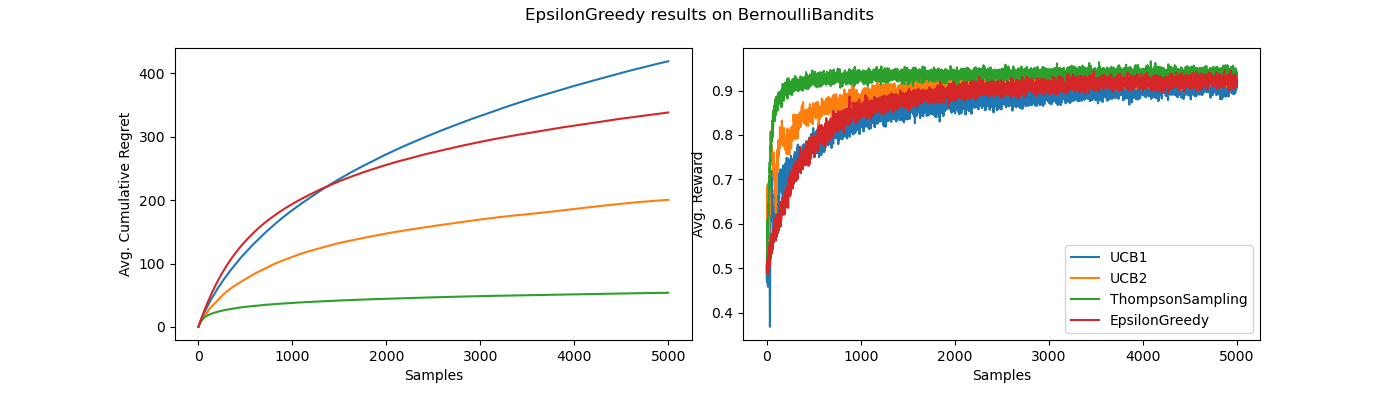
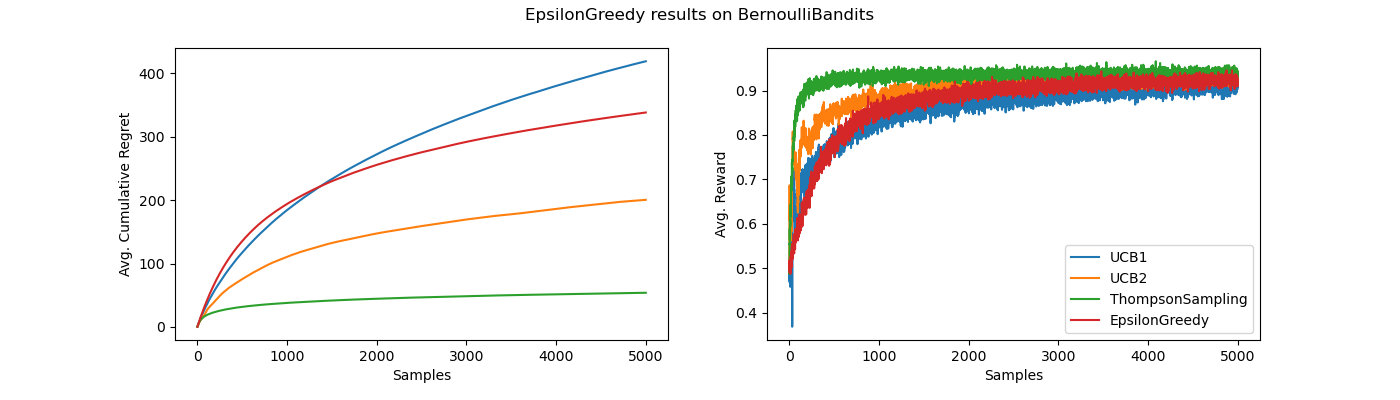
fix figure

diff --git a/scripts/bench.py b/scripts/bench.py
@@ -42,7 +42,7 @@ if __name__ == "__main__":
             results[Algo.__name__] = res
 
         fig = plt.figure(figsize=(14, 4))
-        fig.subplots_adjust(bottom=0.15, wspace=0.1)
+        fig.subplots_adjust(bottom=0.15, wspace=0.2)
         ax1 = fig.add_subplot(121)
         ax2 = fig.add_subplot(122)
         fig.suptitle(f"{Algo.__name__} results on {Env.__name__}")
